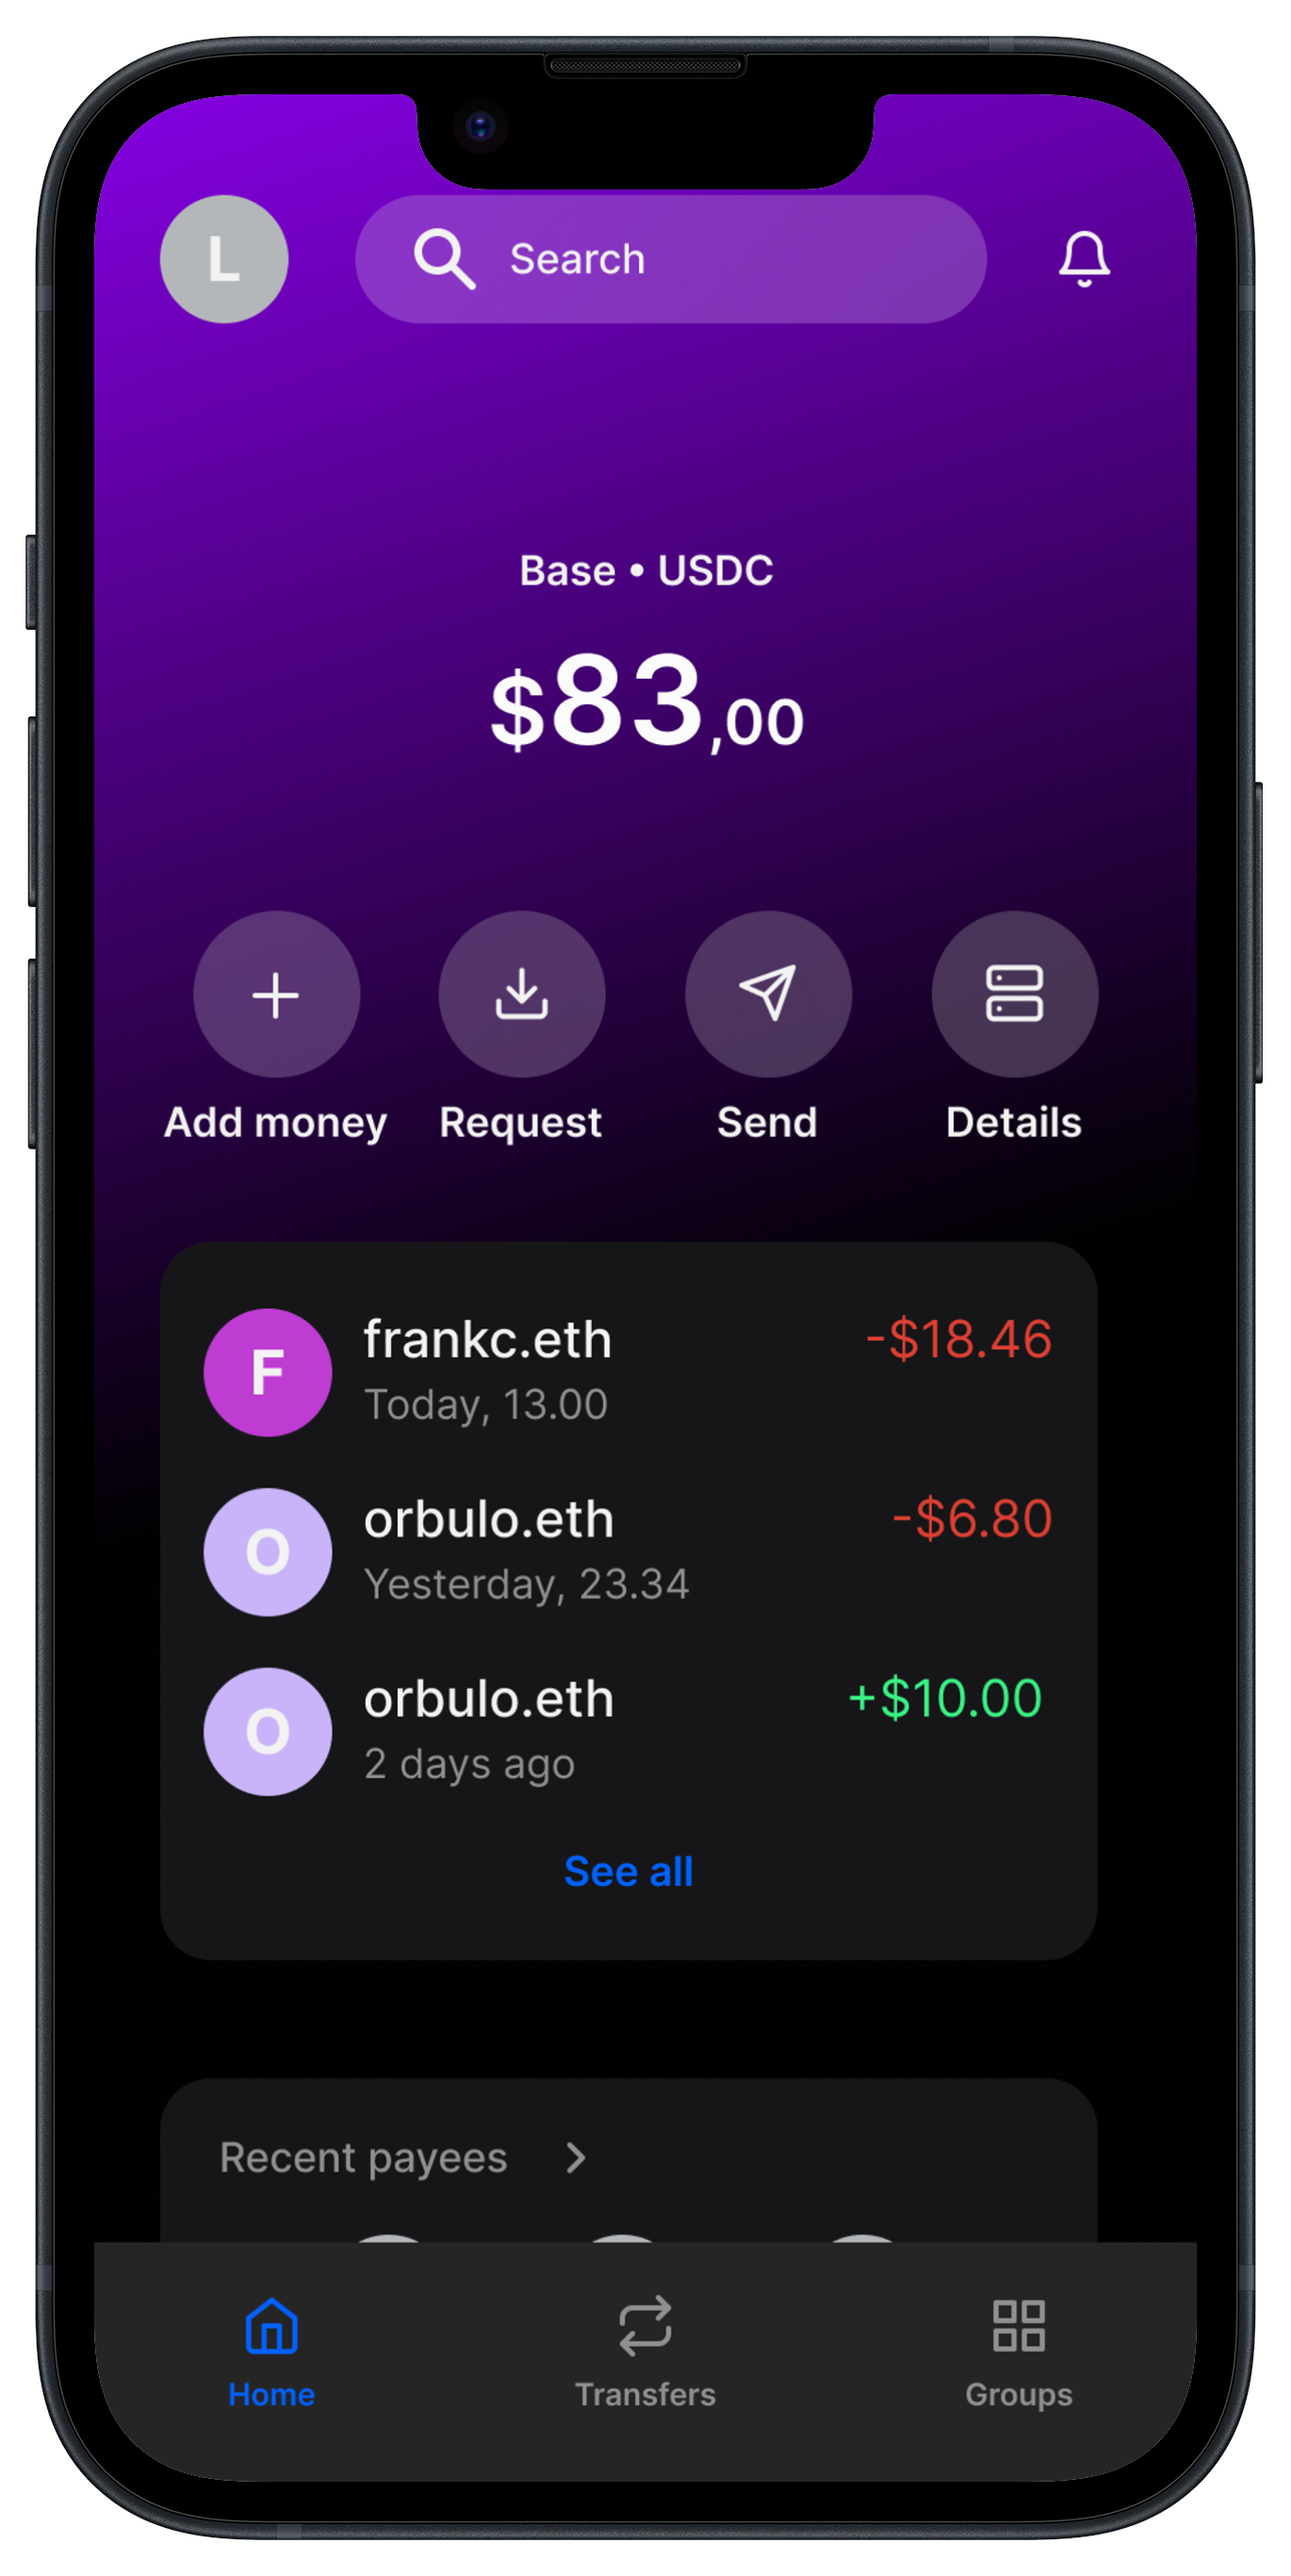
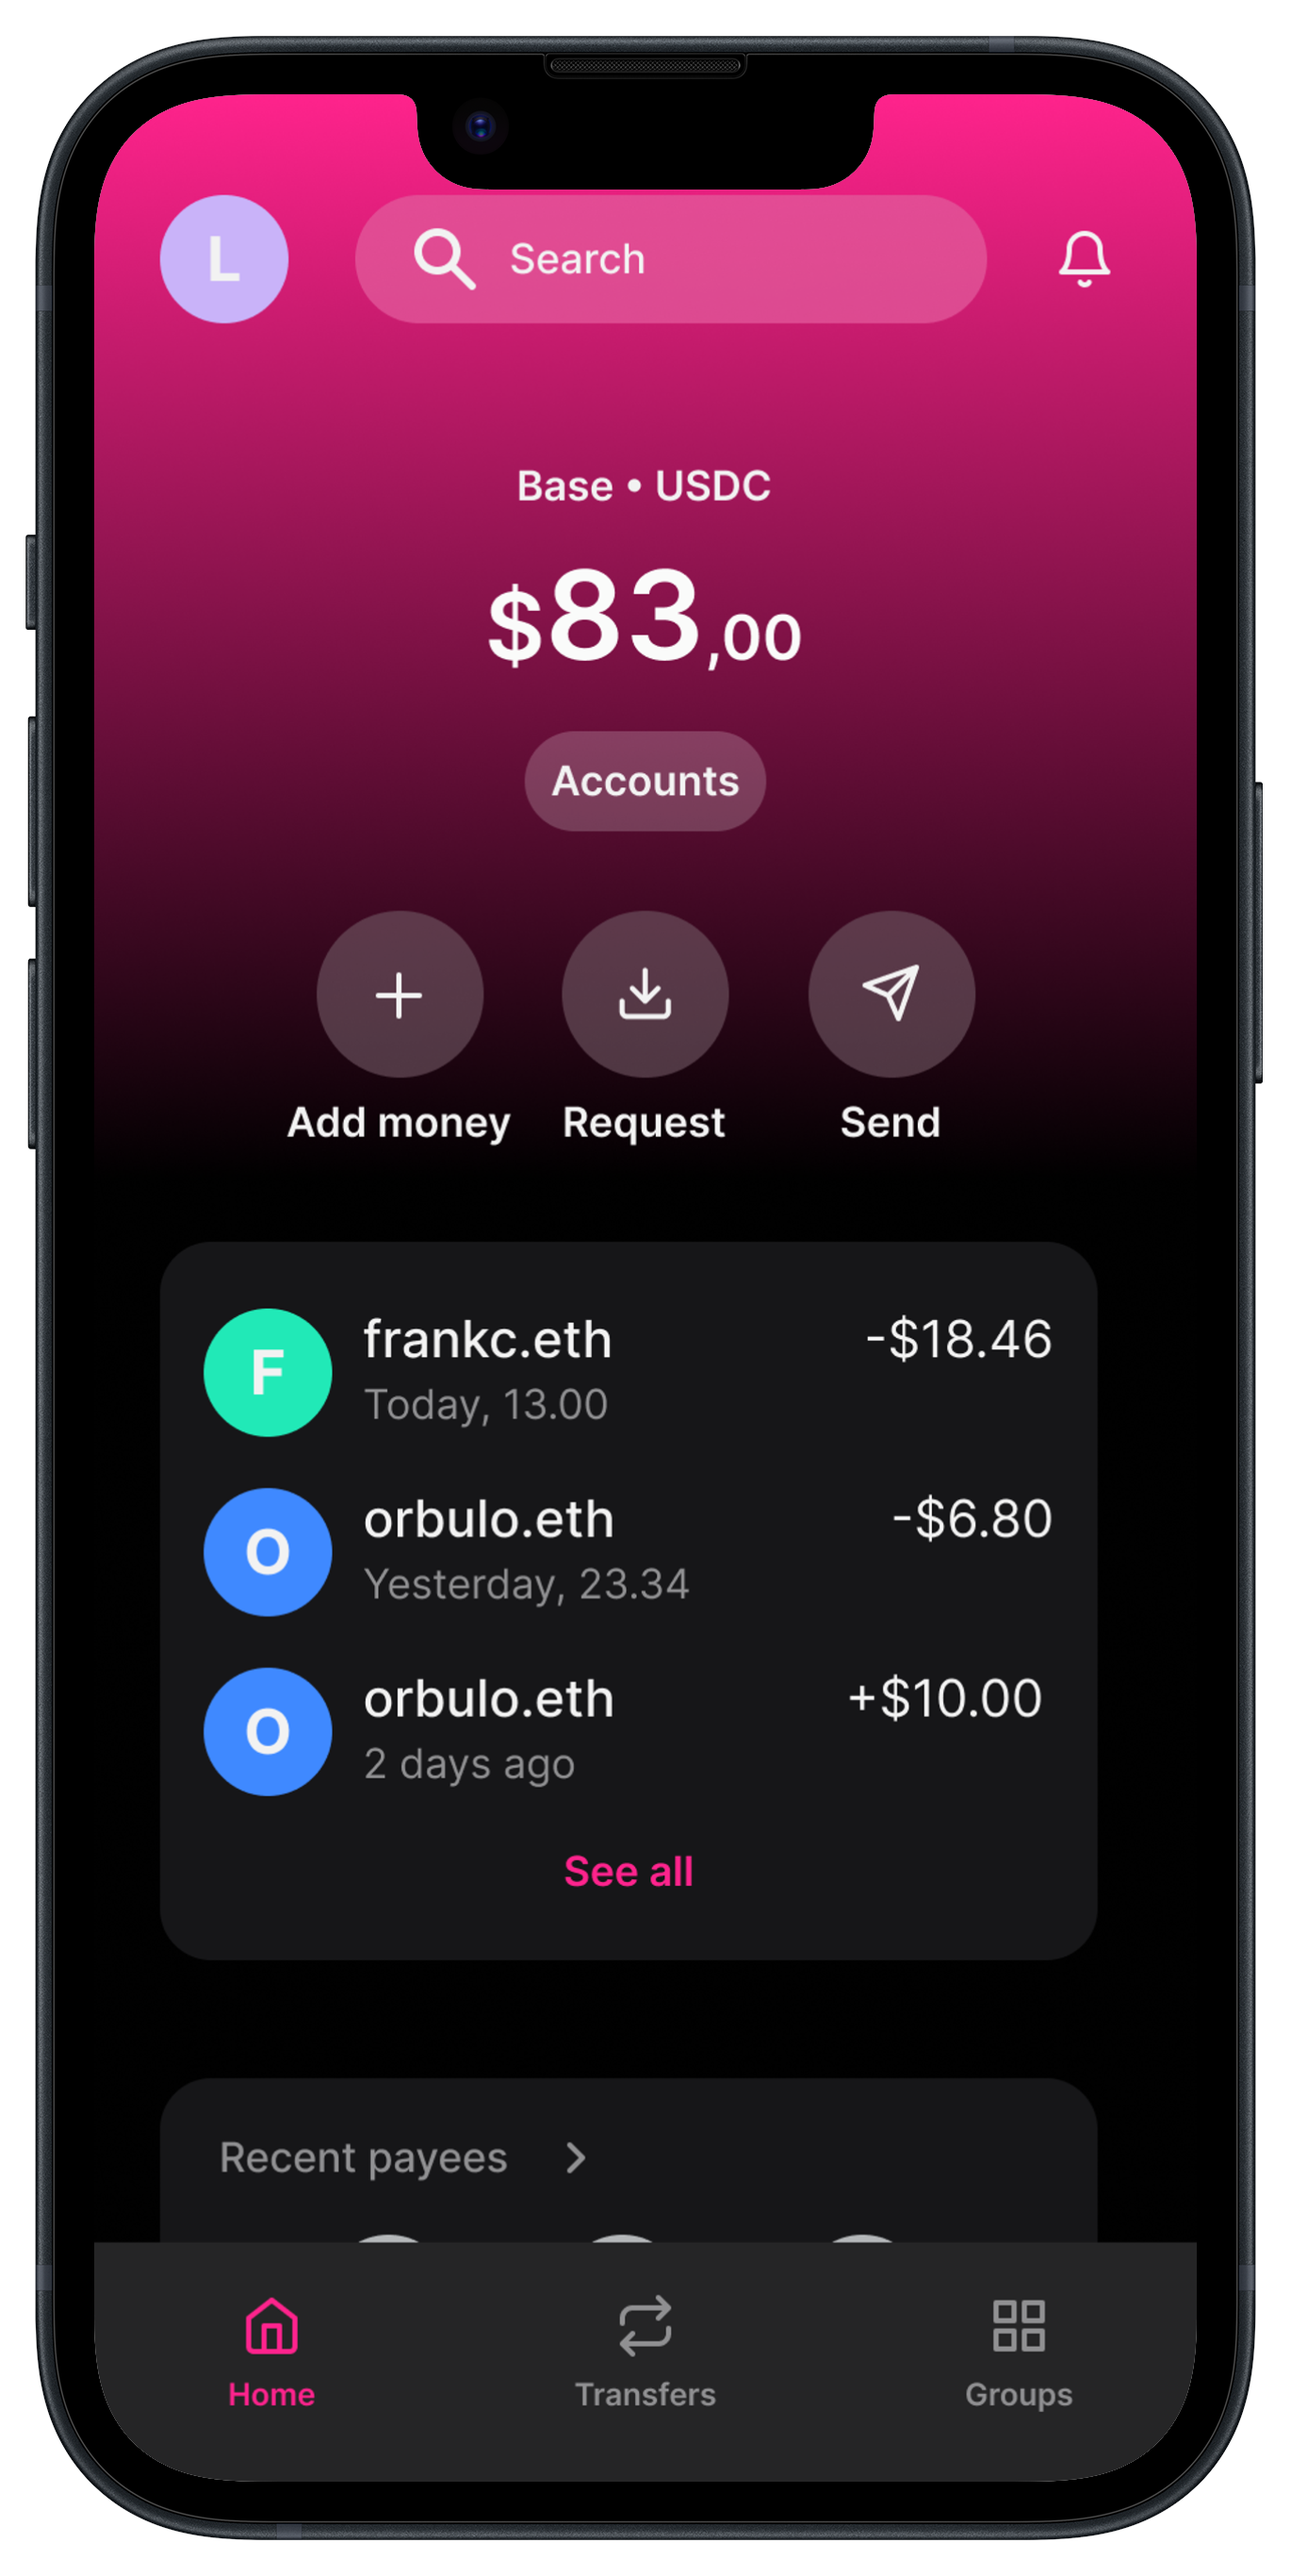
update website

diff --git a/app/page.tsx b/app/page.tsx
@@ -1,15 +1,15 @@
-import Image from "next/image";
+import Image from "next/image"
 
 export default function Home() {
   return (
     <main className="flex min-h-screen flex-col items-center text-center justify-between p-16 space-y-8">
       <div className="flex flex-col space-y-4">
         <div>
-          <span className="text-6xl text-blue-700 font-semibold">fluid</span>
-          <span className="text-6xl text-white font-semibold">pay</span>
+          <span className="text-6xl text-primary font-semibold">P</span>
+          <span className="text-6xl text-white font-semibold">link</span>
         </div>
         <div>
-          <p className="text-2xl">To anyone, from everywhere.</p>
+          <p className="text-2xl">Your USDC shortcut.</p>
         </div>
       </div>
       <div className="flex flex-col items-center justify-center">
@@ -21,7 +21,7 @@ export default function Home() {
           <a
             target="_blank"
             href="https://t.me/+vjYitI1IT9piYWNk"
-            className="text-amber-300"
+            className="text-primary"
           >
             Join alpha group chat{"  "}
           </a>
@@ -38,5 +38,5 @@ export default function Home() {
         </p>
       </div>
     </main>
-  );
+  )
 }

diff --git a/app/u/[username]/page.tsx b/app/u/[username]/page.tsx
@@ -40,8 +40,8 @@ export default function Send({
     <main className="flex min-h-screen flex-col items-center text-center justify-between p-24 space-y-8">
       <div className="flex flex-col space-y-8">
         <div>
-          <span className="text-6xl text-blue-700 font-semibold">fluid</span>
-          <span className="text-6xl text-white font-semibold">pay</span>
+          <span className="text-6xl text-primary font-semibold">P</span>
+          <span className="text-6xl text-white font-semibold">link</span>
         </div>
         <div className="flex flex-col space-y-4">
           <div className="text-xl">
@@ -51,9 +51,9 @@ export default function Send({
         </div>
         <div className="flex flex-col space-y-4 justify-center text-center items-center">
           <Button type="button" color="primary" size="lg" radius="full">
-            Install Fluidpay
+            Install Plink
           </Button>
-          <Link href={`https://fluidpay.xyz/u/${username}`}>
+          <Link href={`https://plink.finance/u/${username}`}>
             <Button
               type="button"
               color="primary"

diff --git a/app/u/[username]/request/[amount]/page.tsx b/app/u/[username]/request/[amount]/page.tsx
@@ -39,8 +39,8 @@ export default function Request({
     <main className="flex min-h-screen flex-col items-center text-center justify-between p-24 space-y-8">
       <div className="flex flex-col space-y-8">
         <div>
-          <span className="text-6xl text-blue-700 font-semibold">fluid</span>
-          <span className="text-6xl text-white font-semibold">pay</span>
+          <span className="text-6xl text-primary font-semibold">P</span>
+          <span className="text-6xl text-white font-semibold">link</span>
         </div>
         <div className="flex flex-col space-y-4">
           <div className="text-xl">
@@ -59,9 +59,9 @@ export default function Request({
             size="lg"
             radius="full"
           >
-            Install Fluidpay
+            Install Plink
           </Button>
-          <Link href={`https://fluidpay.xyz/u/${username}/request/${amount}`}>
+          <Link href={`https://plink.finance/u/${username}/request/${amount}`}>
             <Button
               type="button"
               color="primary"

diff --git a/app/layout.tsx b/app/layout.tsx
@@ -6,16 +6,16 @@ import Web3Provider from "@/components/Web3Provider";
 
 export const metadata: Metadata = {
   metadataBase: new URL(getAbsoluteUrl("/")),
-  title: "Fluidpay",
-  description: "Stablecoin payments made easy.",
+  title: "Plink",
+  description: "Your USDC shortcut.",
   openGraph: {
-    title: "Fluidpay",
-    description: "Stablecoin payments made easy.",
+    title: "Plink",
+    description: "Your USDC shortcut.",
     url: new URL(getAbsoluteUrl("/")),
     images: [
       {
         url: getAbsoluteUrl("/preview-img.png"),
-        alt: "Fluidpay",
+        alt: "Plink",
         width: 1200,
         height: 630,
       },

diff --git a/components/Web3Provider.tsx b/components/Web3Provider.tsx
@@ -7,7 +7,7 @@ import { QueryClientProvider, QueryClient } from "@tanstack/react-query";
 import { ReactNode } from "react";
 
 const config = getDefaultConfig({
-  appName: "Fluidpay",
+  appName: "Plink",
   projectId: process.env.NEXT_PUBLIC_WALLETCONNECT_PROJECT_ID!,
   chains: [base],
   ssr: true, // If your dApp uses server side rendering (SSR)

diff --git a/tailwind.config.ts b/tailwind.config.ts
@@ -16,7 +16,7 @@ const config: Config = {
           "conic-gradient(from 180deg at 50% 50%, var(--tw-gradient-stops))",
       },
       colors: {
-        primary: "#0061FF",
+        primary: "#FF238C",
         secondary: "#7209B7",
         white: "#F2F2F2",
         darkGrey: "#161618",
